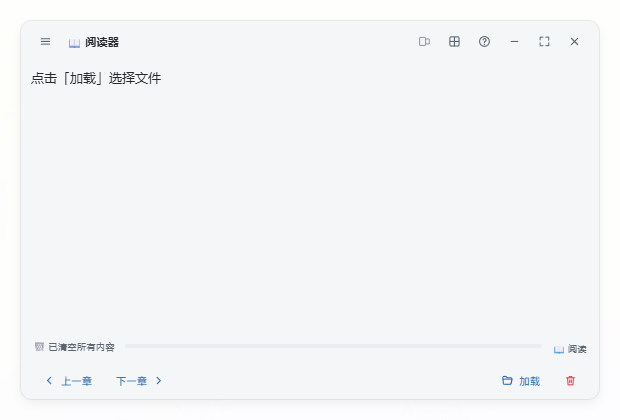
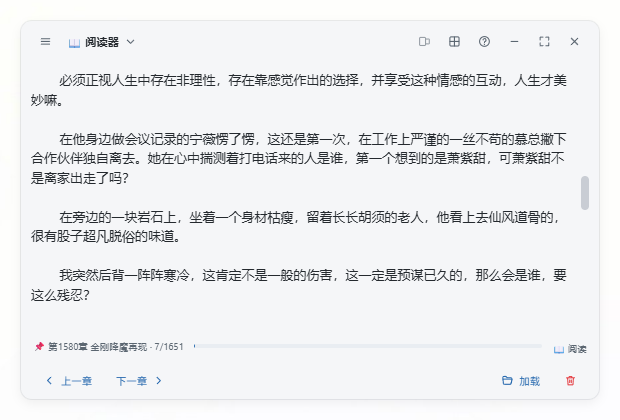
docs: 主窗截图换成有正文的分页阅读态
原图是未载入的空状态，看不到阅读效果。新图展示分页模式下的正文排版、章节进度与页码、翻页按钮。

diff --git a/README.md b/README.md
@@ -7,7 +7,7 @@
 支持 TXT / EPUB / PDF / DOCX / Markdown，全部在本地解析，不依赖在线服务。
 
 <p align="center">
-  <img src="assets/screenshots/main.png" width="480" alt="主窗口（未载入时）">
+  <img src="assets/screenshots/main.png" width="520" alt="主窗口（分页阅读，含章节进度与页码）">
 </p>
 
 <p align="center">
